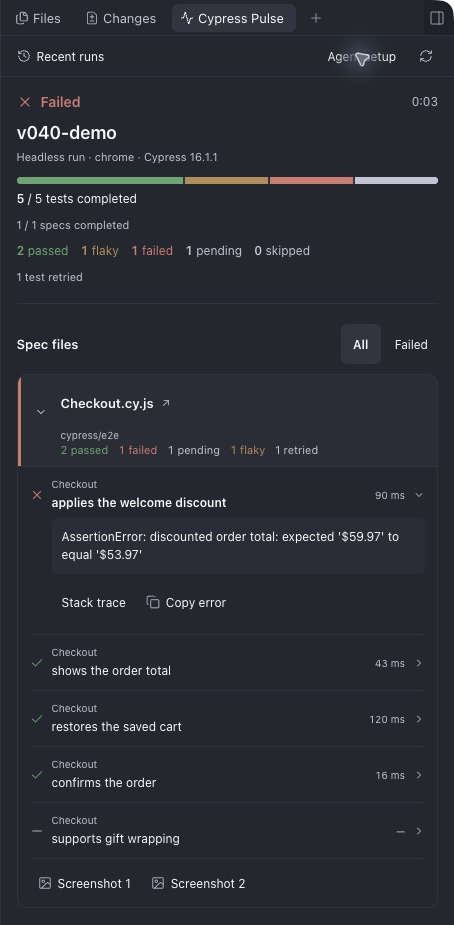
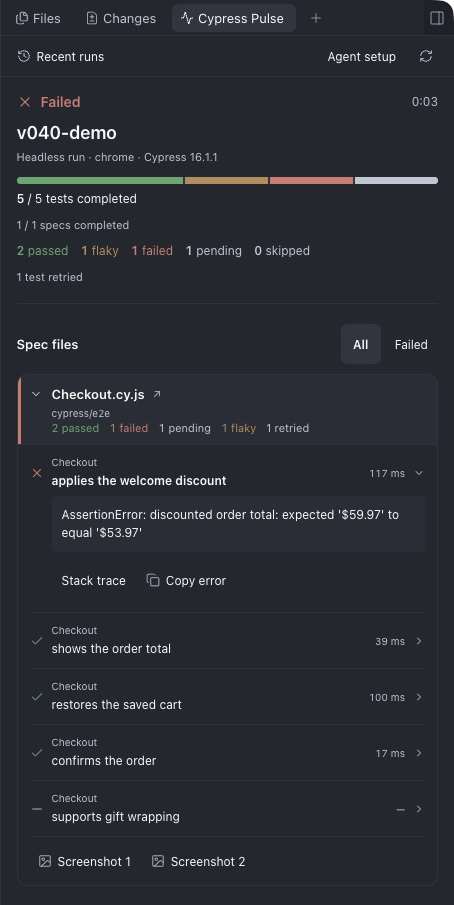
fix: balance suite card spacing and text alignment

diff --git a/client/spec-group.tsx b/client/spec-group.tsx
@@ -61,33 +61,25 @@ export function SpecGroup({
         style={{
           borderLeftWidth: 3,
           borderLeftColor: color,
-          paddingRight: 10,
-          paddingVertical: 6,
+          paddingRight: 12,
+          paddingVertical: 10,
         }}
       >
         <View style={{ flexDirection: "row", alignItems: "center" }}>
-          <Pressable
-            accessibilityRole="button"
-            accessibilityLabel={`${expanded ? "Collapse" : "Expand"} ${basename(spec.file) || "unreported spec"}`}
-            accessibilityState={{ expanded }}
-            onPress={(event) => {
-              event.stopPropagation();
-              setCollapsed(expanded);
-            }}
-            style={({ pressed }) => ({
-              width: 40,
-              height: 44,
-              justifyContent: "center",
+          <View
+            style={{
+              width: 31,
               alignItems: "center",
-              opacity: pressed ? 0.6 : 1,
-            })}
+              alignSelf: "flex-start",
+              paddingTop: 2,
+            }}
           >
             <Icon
               name={expanded ? "ChevronDown" : "ChevronRight"}
               size={14}
               color={colors.foregroundMuted}
             />
-          </Pressable>
+          </View>
           <View style={{ flex: 1, gap: 3 }}>
             <Pressable
               accessibilityRole="button"
@@ -100,7 +92,7 @@ export function SpecGroup({
               style={({ pressed }) => ({
                 alignSelf: "flex-start",
                 maxWidth: "100%",
-                minHeight: 44,
+                minHeight: 18,
                 justifyContent: "center",
                 gap: 3,
                 opacity: busy ? 0.5 : pressed ? 0.7 : 1,
@@ -145,12 +137,12 @@ export function SpecGroup({
         </View>
         <View
           style={{
-            marginLeft: 40,
+            marginLeft: 31,
             flexDirection: "row",
             flexWrap: "wrap",
             alignItems: "center",
             gap: 10,
-            paddingBottom: 4,
+            paddingBottom: 0,
           }}
         >
           {spec.status === "running" ? (
